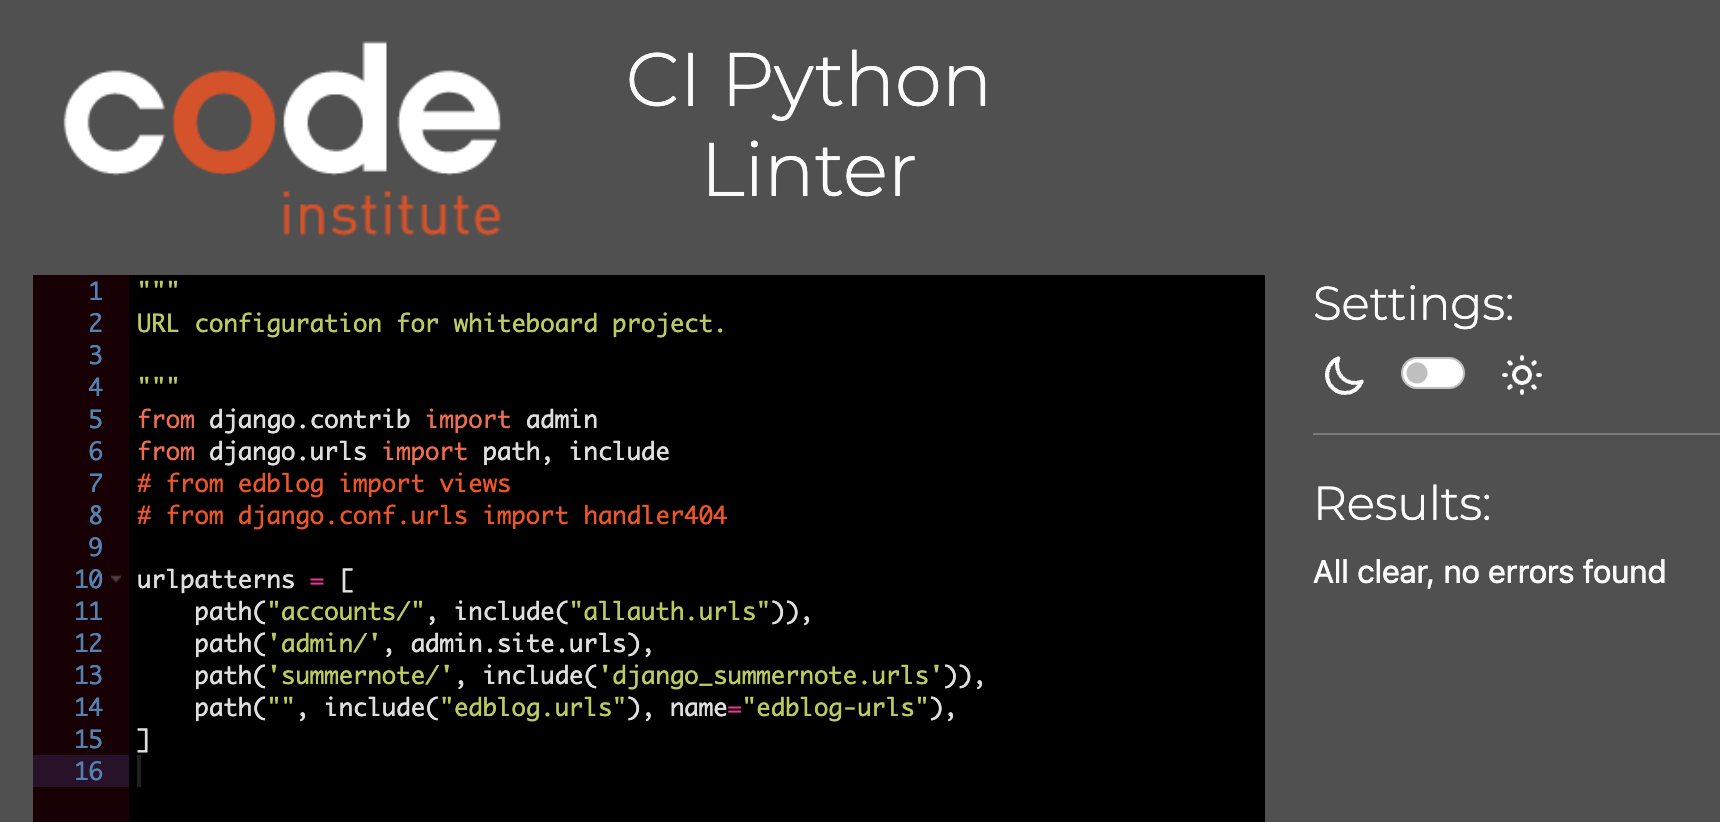
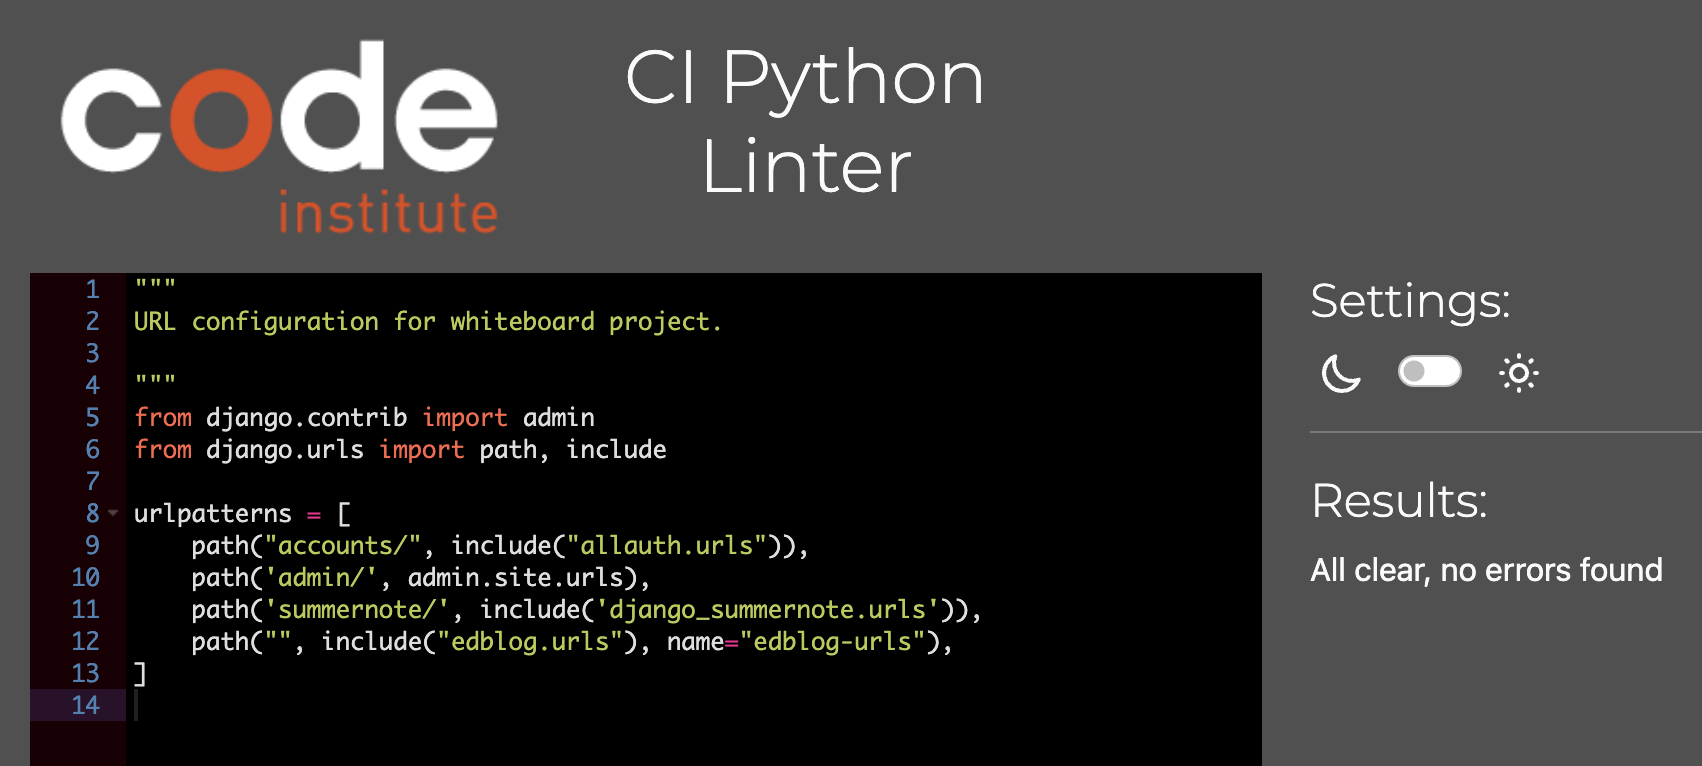
Remove custom error pages and update documentation

diff --git a/staticfiles/js/comments.js b/staticfiles/js/comments.js
@@ -1,8 +1,12 @@
+/* jshint esversion: 6 */
+
+// Get all buttons for editing comments.
 const editButtons = document.getElementsByClassName("btn-edit");
 const commentText = document.getElementById("id_content");
 const commentForm = document.getElementById("commentForm");
 const submitButton = document.getElementById("submitButton");
 
+// Get the delete modal and delete buttons.
 const deleteModal = new bootstrap.Modal(document.getElementById("deleteModal"));
 const deleteButtons = document.getElementsByClassName("comment-delete");
 const deleteConfirm = document.getElementById("deleteConfirm");
@@ -68,8 +72,6 @@ function getCookie(name) {
   }
   return cookieValue;
 }
-const csrftoken = getCookie("csrftoken");
-console.log("CSRF Token: ", csrftoken);
 
 // Get all "Approve" buttons.
 const approveCommentButtons = document.getElementsByClassName("btn-approve");
@@ -78,13 +80,11 @@ const approveCommentButtons = document.getElementsByClassName("btn-approve");
 for (let button of approveCommentButtons) {
   // Add a click event listener.
   button.addEventListener("click", (e) => {
-    console.log("Button clicked");
     // Prevent the default action.
     e.preventDefault();
 
     // Get the ID of the comment to be approved.
     let commentId = e.target.getAttribute("data-comment_id");
-    console.log("Comment ID: ", commentId);
 
     // Send a request to the server to approve the comment.
     fetch(`/comment_approve/${commentId}/`, {
@@ -106,11 +106,13 @@ for (let button of approveCommentButtons) {
           if (statusElement) {
             statusElement.remove();
           }
+          // Show the comment if it was previously hidden.
           const commentDiv = document.querySelector(`#comment-div-${commentId}`);
           if (commentDiv) {
             commentDiv.classList.remove('d-none');
             commentDiv.classList.remove('faded');
           }
+          // Update the comment count.
           const countElement = document.getElementById('comment-count');
           if (countElement) {
             const count = parseInt(countElement.innerText, 10);

diff --git a/whiteboard/urls.py b/whiteboard/urls.py
@@ -4,8 +4,6 @@ URL configuration for whiteboard project.
 """
 from django.contrib import admin
 from django.urls import path, include
-# from edblog import views
-# from django.conf.urls import handler404
 
 urlpatterns = [
     path("accounts/", include("allauth.urls")),
@@ -13,5 +11,3 @@ urlpatterns = [
     path('summernote/', include('django_summernote.urls')),
     path("", include("edblog.urls"), name="edblog-urls"),
 ]
-
-# handler404 = 'edblog.views.custom_404'

diff --git a/edblog/views.py b/edblog/views.py
@@ -241,13 +241,6 @@ def create_post(request):
     return render(request, 'edblog/create_post.html', {'form': form})
 
 
-def custom_404(request, exception):
-    """
-    Custom 404 error page.
-    """
-    return render(request, '404.html', status=404)
-
-
 @csrf_exempt
 def comment_approve(request, comment_id):
     """

diff --git a/README.md b/README.md
@@ -4,6 +4,8 @@ In the author's experience (as a former Science teacher) classrooms can be hecti
 
 'Whiteboard' is a learning platform for teachers to post lesson notes to help their students understanding for a given topic. Students can comment (ask questions) on any given post and teachers can respond.
 
+The website can only be accessed by registered users.
+
 Please use GitHub's burger bun to navigate between sections.
 
 # Agile Development
@@ -133,14 +135,11 @@ Infinite scroll of blog posts was discounted because it tends to be used for aim
 
 ## Implemented
 
-The website can only be accessed by registered users. The following features are available across the site:
+### Navbar and Footer (all pages)
 
-### All Pages
+The navbar and footer are present on all pages and are responsive to different screen sizes.
 
-#### Navbar
-
-The navbar is present on all screens and is responsive to different screen sizes. It is not fixed to the top of the page because it is not necessary to be visible at all times.
-To minimise user clicks, a 'burger bun' is not used because there is enough space to display the logo and links, even for mobile devices.
+The navbar is not fixed to the top of the page because it is not necessary to be visible at all times. To minimise user clicks, a 'burger bun' is not used because there is enough space to display the logo and links, even for mobile devices.
 
 | Teacher | Student |
 | :-: | :-: |
@@ -154,9 +153,7 @@ To minimise user clicks, a 'burger bun' is not used because there is enough spac
 | Django Message | Dismissable message confirming user action | Both |
 | User status | Permanent message advising which user is logged in | Both |
 
-#### Footer
-
-The footer is applied to all screens and is responsive to different screen sizes. It is not fixed to the bottom of the page because it is not necessary to be visible at all times.
+The footer is not fixed to the bottom of the page because it is not necessary to be visible at all times.
 
 | Both Users |
 | :-: |

diff --git a/docs/AGILE.md b/docs/AGILE.md
@@ -88,8 +88,14 @@ Any open issues were moved to the backlog and downgraded to could-haves. The onl
 - Custom error pages could be resolved by adding 'handlers' to project urls.py
 - Console errors on page load due to Cloudinary and can be fixed by a couple of lines in base.html 'head' section
 - User groups could be implemented in admin panel so teachers can log in and have limited functionality such as creating sets and moderating comments
-- Focus on post draft functionality, by either remove draft button from edit_post template or ensuring drafts appear frontend.
+- Focus on post draft functionality, by either removing draft button from edit_post template or ensuring drafts appear frontend.
 
 ## Sprint 4 - ends with Submit Full Stack Toolkit Portfolio Project
 
 Sprint 4 focused on completing the readme and testing documentation.
+
+All actions from the previous mentor meeting were completed, except for custom error pages which were not deemed necessary because Django's default error pages are sufficient. This user story was moved to the backlog and left as a could-have.
+
+| Project Sprints Summary | Future Implementation |
+| :-: | :-: |
+| ![project-complete](/docs/sprints/project-complete.png) | ![future-implementation](/docs/sprints/future-implementation.png) |
